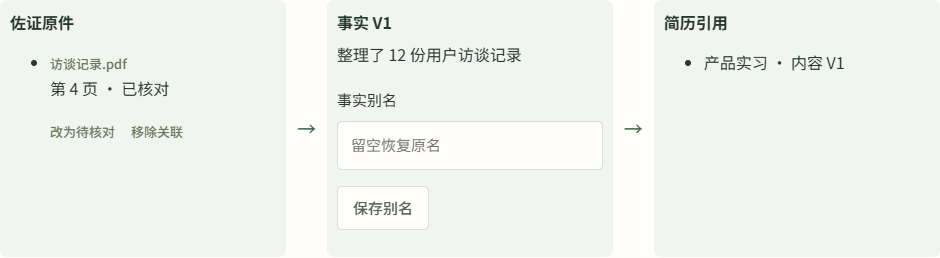
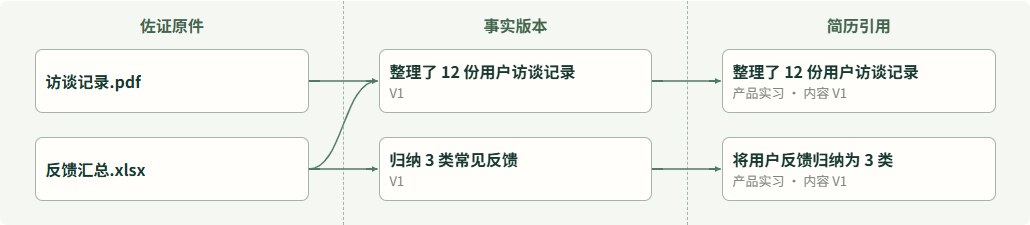
feat: visualize evidence links as an entity canvas

diff --git a/src/app/FactEvidence.tsx b/src/app/FactEvidence.tsx
@@ -1,3 +1,4 @@
+import { useId } from 'react';
 import { type Action, type CareerState, type Fact, type Resume } from '../application/career-service';
 
 type Save = (action: Action, message: string) => Promise<boolean>;
@@ -13,6 +14,60 @@ export function NodeAlias({ label, alias, onSave }: { label: string; alias: stri
  </form>;
 }
 
+export function EvidenceCanvas({ assetId, state, open }: { assetId: string; state: CareerState; open: OpenEvidence }) {
+ const arrowId = useId();
+ const files = state.evidence.filter(file => file.contributionId === assetId);
+ const facts = state.facts.filter(fact => fact.contributionId === assetId);
+ const factRows = new Map(facts.map((fact, index) => [fact.revisionId, index]));
+ const fileRows = new Map(files.map((file, index) => [file.id, index]));
+ const references = state.resumes.flatMap(resume => resume.plan.items.flatMap((item, index) =>
+  factRows.has(item.revisionId) ? [{resume, item, index}] : []));
+ if (!files.length && !facts.length) return null;
+ const height = 88 * Math.max(files.length, facts.length, references.length, 1);
+ const line = (from: number, to: number, boundary: number, key: string) => {
+  const y1 = from * 88 + 32;
+  const y2 = to * 88 + 32;
+  return <path key={key} d={`M ${boundary - 30} ${y1} C ${boundary} ${y1}, ${boundary} ${y2}, ${boundary + 30} ${y2}`}
+   vectorEffect="non-scaling-stroke" />;
+ };
+ return <details className="real-evidence-map">
+  <summary>证据关系画布</summary>
+  <div className="evidence-canvas-scroll" tabIndex={0} role="region" aria-label="证据关系画布，可横向滚动">
+   <div className="evidence-canvas">
+    <div className="evidence-lanes">
+     <section aria-label="佐证原件"><h4>佐证原件</h4>
+      {files.map(file => <button key={file.id} className="evidence-node" type="button" title={file.name}
+       onClick={() => void open(file.id, file.name)}><strong>{file.alias || file.name}</strong></button>)}
+     </section>
+     <section aria-label="事实版本"><h4>事实版本</h4>
+      {facts.map(fact => <div className="evidence-node" key={fact.revisionId} title={fact.content}>
+       <strong>{state.factAliases.find(alias => alias.factId === fact.id)?.alias || fact.content}</strong><small>V{fact.revision}</small>
+      </div>)}
+     </section>
+     <section aria-label="简历引用"><h4>简历引用</h4>
+      {references.map(({resume, item, index}) => <div className="evidence-node" key={resume.id + ':' + index} title={item.text}>
+       <strong>{item.text}</strong><small>{state.jobs.find(job => job.id === resume.jobId)?.roleTitle ?? '岗位简历'} · 内容 V{resume.version}</small>
+      </div>)}
+     </section>
+    </div>
+    <svg className="evidence-edges" viewBox={`0 0 900 ${height}`} preserveAspectRatio="none" height={height} aria-hidden="true">
+     <defs><marker id={arrowId} markerWidth="5" markerHeight="6" refX="5" refY="3" orient="auto" markerUnits="userSpaceOnUse">
+      <path d="M 0 0 L 5 3 L 0 6 Z" fill="#527a64" />
+     </marker></defs>
+     <g fill="none" stroke="#527a64" strokeWidth="1.5" markerEnd={`url(#${arrowId})`}>
+      {state.evidenceLinks.map(link => {
+       const from = fileRows.get(link.evidenceId);
+       const to = factRows.get(link.revisionId);
+       return from !== undefined && to !== undefined && line(from, to, 300, link.evidenceId + ':' + link.revisionId);
+      })}
+      {references.map(({resume, item, index}, row) => line(factRows.get(item.revisionId)!, row, 600, resume.id + ':' + index))}
+     </g>
+    </svg>
+   </div>
+  </div>
+ </details>;
+}
+
 export function FactEvidence({ fact, state, save, open }: { fact: Fact; state: CareerState; save: Save; open: OpenEvidence }) {
  const files = state.evidence.filter(file => file.contributionId === fact.contributionId);
  const links = state.evidenceLinks.filter(link => link.revisionId === fact.revisionId);
@@ -21,8 +76,8 @@ export function FactEvidence({ fact, state, save, open }: { fact: Fact; state: C
  const target = { fact_id: fact.id, expected_revision_id: fact.revisionId };
  return <details className="real-evidence-map">
   <summary>事实与证据 · {links.length} 份关联</summary>
-  <div className="real-evidence-columns">
-   <section><h4>佐证原件</h4>
+  <div>
+   <section>
     {links.length ? <ul>{links.map(link => {
      const file = files.find(item => item.id === link.evidenceId);
      if (!file) return null;
@@ -37,12 +92,9 @@ export function FactEvidence({ fact, state, save, open }: { fact: Fact; state: C
      </li>;
     })}</ul> : <p>尚未关联佐证。</p>}
    </section>
-   <span className="real-evidence-arrow" aria-hidden="true">→</span>
-   <section><h4>事实 V{fact.revision}</h4><p>{alias || fact.content}</p>
-    {alias && <small>原文：{fact.content}</small>}
+   <section>
     <NodeAlias label="事实别名" alias={alias} onSave={value => void save({type:'rename_fact_node',fact_id:fact.id,alias:value},'事实别名已保存。')} />
    </section>
-   <span className="real-evidence-arrow" aria-hidden="true">→</span>
    <section><h4>简历引用</h4>
     {resumes.length ? <ul>{resumes.map(resume => <li key={resume.id}>{state.jobs.find(job => job.id === resume.jobId)?.roleTitle ?? '岗位简历'} · 内容 V{resume.version}</li>)}</ul> : <p>此事实版本尚未被简历引用。</p>}
    </section>

diff --git a/src/app/workspace.css b/src/app/workspace.css
@@ -5,29 +5,28 @@
   border: 1px solid #d6e1d9;
   border-radius: 0.75rem;
 }
-.real-evidence-map { container-type: inline-size; }
 .real-evidence-map summary { cursor: pointer; font-weight: 650; }
-.real-evidence-columns {
-  display: grid;
-  grid-template-columns: minmax(0, 1fr) auto minmax(0, 1fr) auto minmax(0, 1fr);
-  gap: 0.75rem;
-  margin-block: 0.75rem;
-}
-.real-evidence-columns section {
-  padding: 0.65rem;
-  background: #f0f5ef;
+.evidence-canvas-scroll { overflow-x: auto; }
+.evidence-canvas { position: relative; min-width: 630px; background: #f4f7f2; border-radius: 0.5rem; }
+.evidence-lanes { display: grid; grid-template-columns: repeat(3, minmax(0, 1fr)); }
+.evidence-lanes > section + section { border-inline-start: 1px dashed #a3b5a7; }
+.evidence-lanes h4 { height: 48px; margin: 0; display: grid; place-items: center; color: #44654d; }
+.evidence-node {
+  display: flex;
+  flex-direction: column;
+  justify-content: center;
+  align-items: flex-start;
+  width: 80%;
+  height: 64px;
+  margin: 0 auto 24px;
+  padding: 0.45rem 0.65rem;
+  text-align: start;
+  color: var(--deep);
+  background: #fffefb;
+  border: 1px solid #a3b5a7;
   border-radius: 0.5rem;
-  overflow-wrap: anywhere;
 }
-.real-evidence-columns h4 { margin: 0 0 0.4rem; }
-
-.real-evidence-arrow {
-  place-self: center;
-  color: #44654d;
-  font-size: 1.25rem;
-  line-height: 1;
-}
-@container (width < 42rem) {
-  .real-evidence-columns { grid-template-columns: minmax(0, 1fr); }
-  .real-evidence-arrow { transform: rotate(90deg); }
-}
+.evidence-node > * { max-width: 100%; overflow: hidden; text-overflow: ellipsis; white-space: nowrap; }
+.evidence-node small { color: var(--muted); }
+button.evidence-node { font: inherit; cursor: pointer; }
+.evidence-edges { position: absolute; inset: 48px 0 auto; width: 100%; pointer-events: none; }

diff --git a/src/app/WorkspaceApp.tsx b/src/app/WorkspaceApp.tsx
@@ -9,7 +9,7 @@ import { AiSettings } from './AiSettings';
 import { RealAssistant, type AiIntent } from './RealAssistant';
 import { reactiveResumeJson, reactiveResumeFilename } from '../application/reactive-resume';
 import { ReactiveResumeSettings, ReactiveResumeActions } from './ReactiveResume';
-import { FactEvidence, NodeAlias, ResumeEvidence } from './FactEvidence';
+import { EvidenceCanvas, FactEvidence, NodeAlias, ResumeEvidence } from './FactEvidence';
 import './real-ai.css';
 import './workspace.css';
 type Page = 'overview' | 'assets' | 'jobs' | 'library' | 'settings';
@@ -157,6 +157,7 @@ export default function WorkspaceApp({ service: provided, aiService: providedAi 
        <NodeAlias label={`材料别名 · ${item.name}`} alias={item.alias} onSave={alias => void act({type:'rename_evidence_node',evidence_id:item.id,alias},'材料别名已保存。')} />
       </li>)}
      </ul>
+     <EvidenceCanvas assetId={asset.id} state={state} open={openEvidence} />
      <h3>事实清单</h3>
      {state.facts.filter(f => f.contributionId === asset.id).map(fact => <div className={'real-fact ' + (fact.state === 'RETRACTED' ? 'retracted' : '')} key={fact.id}>
       <div><p>{fact.content}</p><span className={'badge ' + (fact.verification === 'USER_CONFIRMED' ? 'badge-green' : 'badge-orange')}>{fact.state === 'RETRACTED' ? '已撤回' : fact.verification === 'USER_CONFIRMED' ? '用户已确认' : '待审查'}</span> <small>版本 {fact.revision} · {owners.find(o => o[0] === fact.ownership)?.[1]}{fact.risk === 'HIGH' ? ' · 需核实数字或职责' : ''}</small><FactEvidence fact={fact} state={state} save={act} open={openEvidence} /></div>

diff --git a/README.md b/README.md
@@ -44,7 +44,7 @@
 
 ![职业资产的事实与证据界面，依次显示佐证原件、事实版本和简历引用](docs/fact-evidence-flow.png)
 
-截图使用演示数据。《访谈记录.pdf》第 4 页支持「整理了 12 份用户访谈记录」这条事实，产品实习简历的内容 V1 引用了该事实版本。
+截图使用演示数据。《反馈汇总.xlsx》同时关联两条事实，每条事实分别连到产品实习简历 V1 中引用它的条目。
 
 ## 管理佐证材料
 
@@ -61,7 +61,7 @@
 
 ## 事实与证据
 
-在「职业资产」中展开一条事实的「事实与证据」，沿着 **佐证原件 → 事实版本 → 简历引用** 三列查看对应关系。
+在「职业资产」中展开「证据关系画布」，查看 **佐证原件 → 事实版本 → 简历引用** 三个区域。每张卡片对应一个具体文件、事实版本或简历条目，连线表示已保存的关联或引用。窄屏可横向滚动画布。展开单条事实下的「事实与证据」可编辑关联。
 
 1. **起别名**。在材料列表填写「材料别名」并点击「保存别名」。事实也可在「事实与证据」中设置显示别名，便于识别。
 2. **建立关联**。为当前事实版本选择同一职业资产下的材料，可在「证据位置」手动填写页码、工作表或摘录，再点击「保存证据关联」。一条事实可以关联多份材料。
